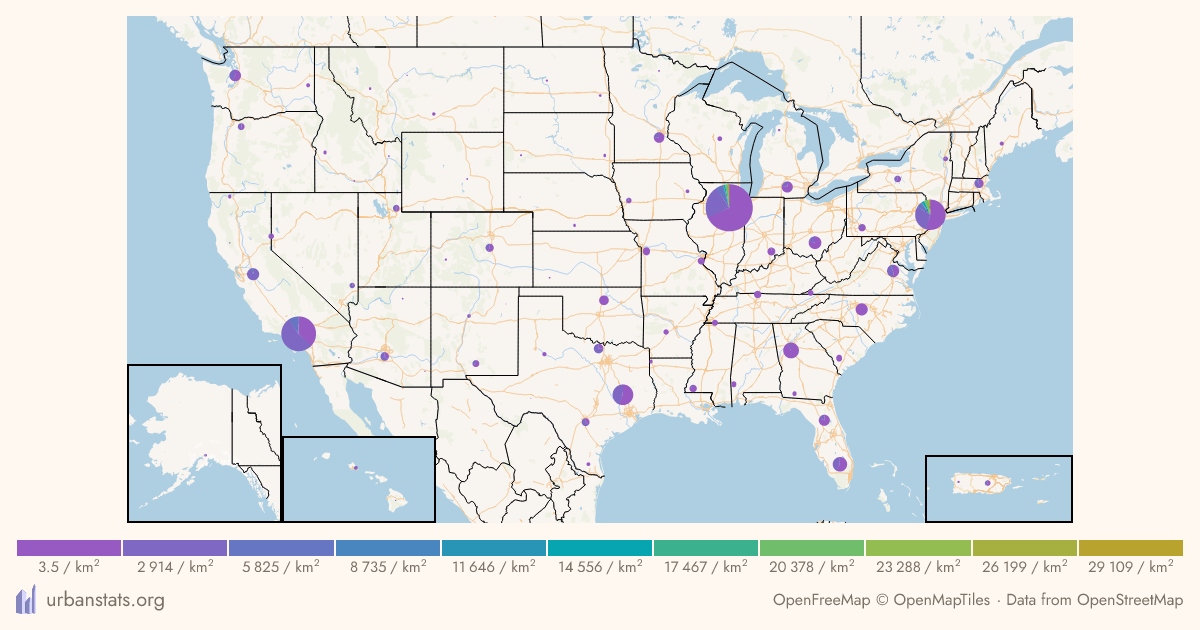
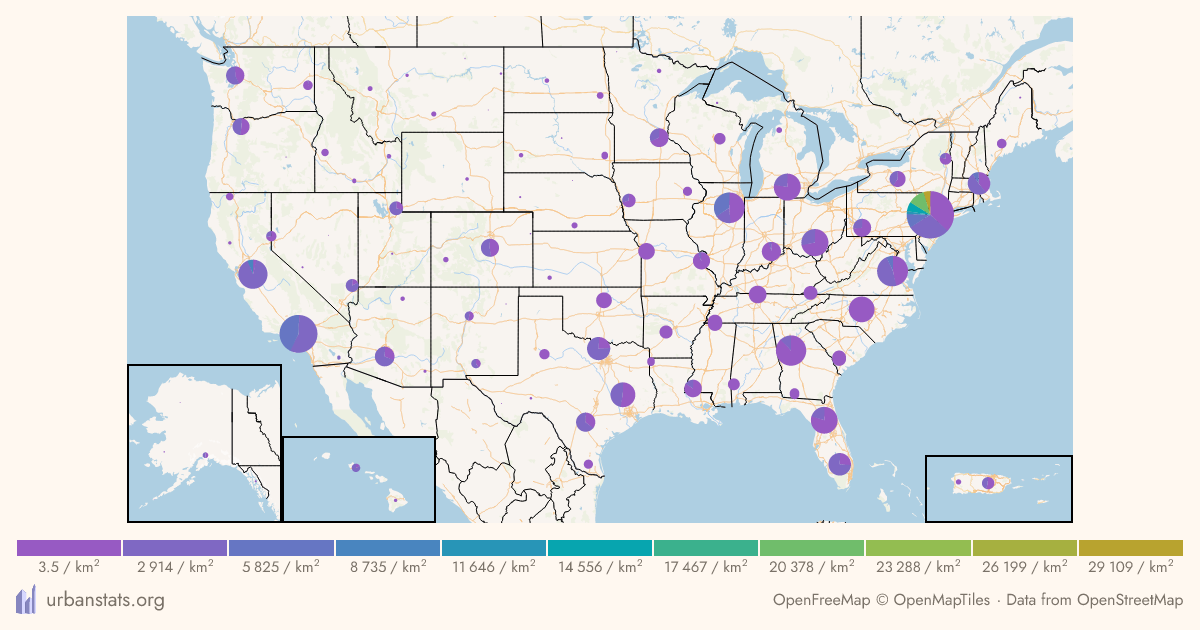
Size a cluster card's markers by what its points actually hold (#2306)
A cluster map's link-embed card sized its markers against totals counted
several times over, so the card showed a plausible map of the wrong
thing.

Supercluster seeds a cluster's properties from `Object.assign({},
props)` of one it made a zoom in. That is a shallow copy, so the
`byCategory` array is the same array the inner cluster stores. Adding
into it in place meant each zoom's clustering pass also added its sums
back into the level below, and reading the clusters at one zoom got
totals that the passes below had gone on inflating. The reduce now
builds a new array instead.

On the ZIP map of non-car commuters that turned this up, the 87 drawn
clusters summed to 91,825 points' worth of area against 32,967 points on
the map. The cluster whose merge chain ran deepest — Texas — came out at
thirteen times New York's, took the whole marker budget, and left every
other marker shrunk against it. Marker positions were never affected,
only sizes, which is why nothing looked obviously broken.

Per-cluster totals now match what the page's own `querySourceFeatures`
reports for the same map, cluster for cluster.

`unit/cluster-markers.test.ts` asserts that merging conserves total
size, which is the invariant that was violated; it fails on the old
reduce with 280,900 against an expected 90,000. The
`embed-worker-cluster-map-card` reference screenshot is regenerated,
since the one on `main` was drawn with the inflated totals.
[…]

diff --git a/react/unit/cluster-markers.test.ts b/react/unit/cluster-markers.test.ts
@@ -1,0 +1,37 @@
+import assert from 'assert/strict'
+import { describe, test } from 'node:test'
+
+import { clusterMarkers } from '../cf-og-worker/src/clusters'
+import { Inset } from '../src/urban-stats-script/constants/insets'
+
+const usa: Inset = {
+    bottomLeft: [0, 0],
+    topRight: [1, 1],
+    coordBox: [-130, 20, -60, 55],
+    mainMap: true,
+    name: undefined,
+}
+
+/** A grid across the country, so points keep merging over the zooms below the one drawn. */
+const points = Array.from({ length: 900 }, (_, i) => ({
+    lon: -125 + (i % 30) * 2,
+    lat: 25 + Math.floor(i / 30) * 1,
+    category: i % 3,
+    size: 100,
+}))
+
+const contents = {
+    kind: 'clusters' as const,
+    points,
+    categoryColors: Array.from({ length: 3 }, (_, i) => `category ${i}`),
+    maxRadius: 30,
+    clusterRadius: 30,
+}
+
+void describe('clusterMarkers', () => {
+    void test('merging points conserves their total size', () => {
+        const markers = clusterMarkers(contents, [{ inset: usa, layout: { scale: 4096, zoom: 4, originX: 0, originY: 0 } }], 1)
+        const total = markers.flat().reduce((sum, marker) => sum + marker.byCategory.reduce((a, b) => a + b, 0), 0)
+        assert.equal(total, points.length * 100)
+    })
+})

diff --git a/react/cf-og-worker/src/clusters.ts b/react/cf-og-worker/src/clusters.ts
@@ -41,10 +41,10 @@ export function clusterMarkers(
         radius: contents.clusterRadius,
         maxZoom: clusterMaxZoom,
         map: props => ({ byCategory: props.byCategory.slice() }),
+        // A new array, not an add in place: supercluster seeds a cluster from a shallow copy of
+        // one a zoom in, so `byCategory` is still that cluster's own array.
         reduce: (accumulated, props) => {
-            for (let i = 0; i < accumulated.byCategory.length; i++) {
-                accumulated.byCategory[i] += props.byCategory[i]
-            }
+            accumulated.byCategory = accumulated.byCategory.map((size, i) => size + props.byCategory[i])
         },
     })
     index.load(contents.points.map(point => ({
